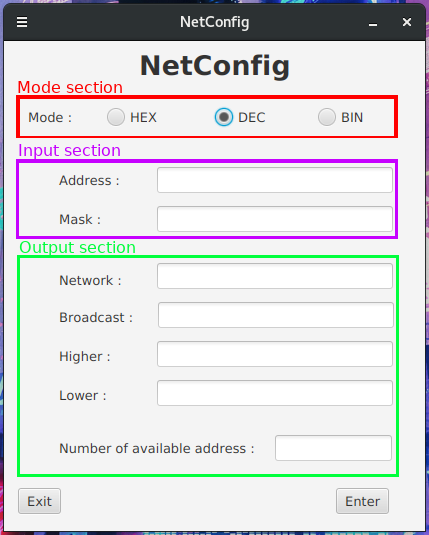
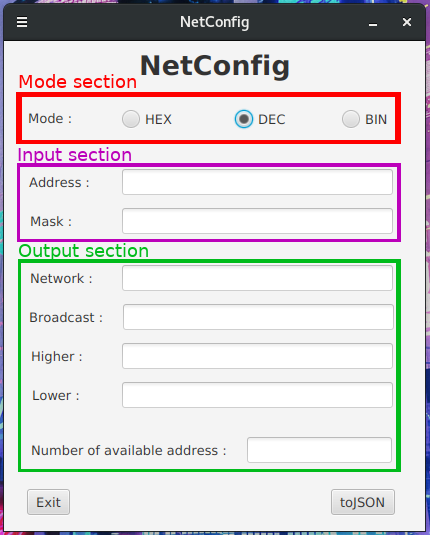
V2

diff --git a/README.md b/README.md
@@ -35,14 +35,7 @@ The next picture represents the main frame of the application.
   + `Higher`: Higher available address
   + `Lower`: Lower available address
   + `Number of available address`: isn't that clear enough? :smile:
-+ `Enter` button: Start the computation
++ `toJSON` button: Export the results in a `.json` file
 + `Exit` button: Exit the application
 
 After the computation, you can change the mode to see the result in an other base (`HEX`, `BIN`, `BIN`).
-
-If the ask for computation and there is a mistake in your data, nothing will happened.
-
-If you change the base and there is a mistake in your data, a warning message will appear to tell you that the conversion hasn't been made.
-
-![](img/conversion_error.png)
-
